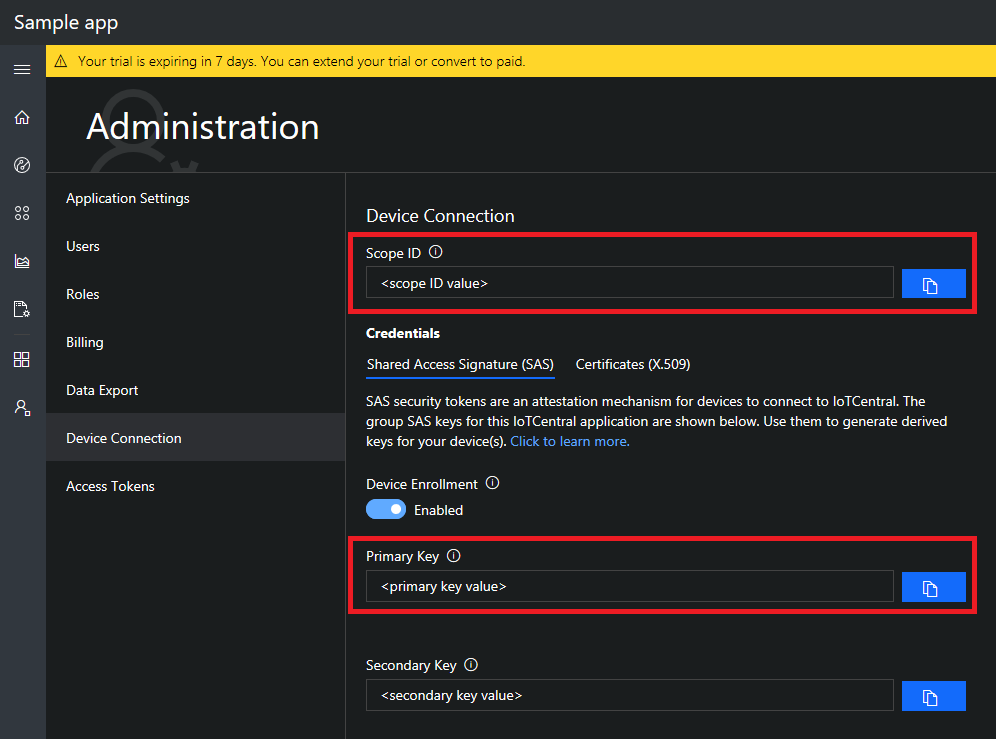
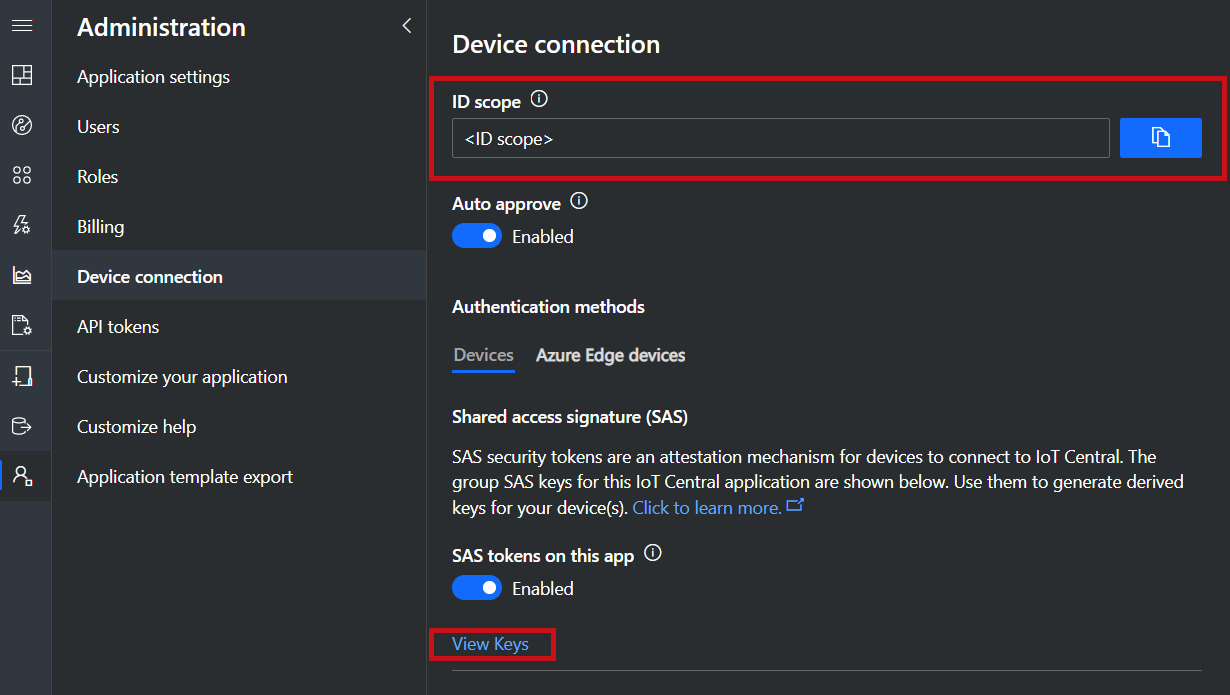
Updating README with preview application instructions

diff --git a/README.md b/README.md
@@ -12,9 +12,9 @@ Take the following steps to deploy an Azure Function into your subscription and 
 
 1. Click the `Deploy to Azure` button above. This opens up a custom ARM template in the Azure Portal to deploy the Azure Function.
 
-1. Go to your IoT Central application, and navigate to the `Administration > Device Connection` area.
+2. Go to your IoT Central application, and navigate to the `Administration > Device Connection` area.
   - Copy the `Scope ID` and paste it into the `Scope ID` field the custom template. 
-  - Copy one of the SAS keys, so either the `Primary Key` or the `Secondary Key`, and paste it into the `Iot Central SAS Key` field. (this key will be stored in a Key Vault
+  - In the same page, under the `Devices` tab, click `View Keys`. Copy either the `Primary key` or the `Secondary key` and paste it into the `Iot Central SAS Key` field. (this key will be stored in a Key Vault
 provisioned with the function).
 
   ![Scope ID and key](assets/scopeIdAndKey.PNG "Scope ID and key")
@@ -53,13 +53,18 @@ An optional `timestamp` field can be included in the body, to specify the UTC da
 This field must be in ISO format (e.g., YYYY-MM-DDTHH:mm:ss.sssZ). If `timestamp` is not provided,
 the current date and time will be used.
 
-> NOTE: `deviceId` must be alphanumeric, lowercase, and may contain hyphens. The values of the fields in `measurements` must be numbers or strings.
+> NOTE: `deviceId` must be alphanumeric, lowercase, and may contain hyphens. For preview applications, the keys of the fields in `measurements` must match the name of a capability.
 
-6. When a message with a new `deviceId` is sent to IoT Central by the device bridge, a device will be created as an **Unassociated device**. Unassociated devices appear in your IoT Central application in `Device Explorer > Unassociated devices`. Click `Associate` and choose a device template to start receiving incoming measurements from that device in IoT Central.
+6. When a message with a new `deviceId` is sent to IoT Central by the device bridge, a new _unassociated device_ will be created:
+  - **Legacy applications (2018):** the new device will appear in your IoT Central application in `Device Explorer > Unassociated devices`. Click `Associate` and choose a device template to start receiving incoming measurements from that device in IoT Central.
+
+  ![Associate device](assets/associate.PNG "Associate device")
+
+  - **Preview applications:** the device will initially be under `Devices > All devices`. Select the device then click `migrate` to choose the appropriate template.
+
+  ![Migrate device](assets/migrate.PNG "Associate device")
 
 > NOTE: Until the device is associated to a template, HTTP calls to the function will return a 403 error status.
-
-![Associate device](assets/associate.PNG "Associate device")
 
 ## What is being provisioned? (pricing)
 The custom template in this repository will provision the following Azure resources:
